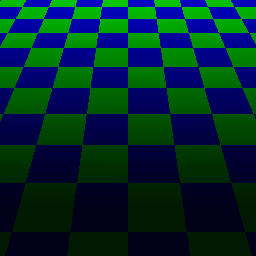
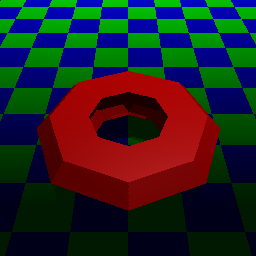
x

Changed region(s): [[0.125, 0.2812, 0.875, 0.8438]]

diff --git a/A4/src/comp557/a4/Scene.java b/A4/src/comp557/a4/Scene.java
@@ -5,13 +5,9 @@ import java.util.HashMap;
 import java.util.List;
 import java.util.Map;
 import javax.vecmath.Color3f;
-import javax.vecmath.Color4f;
 import javax.vecmath.Matrix4d;
-import javax.vecmath.Point3d;
 import javax.vecmath.Vector3d;
 
-import com.jogamp.opengl.glu.GLU;
-import com.jogamp.opengl.util.gl2.GLUT;
 
 /**
  * Simple scene loader based on XML file format.
@@ -68,61 +64,79 @@ public class Scene {
         
         render.init(w, h, showPanel);
         
-        lookat = null;
+		lookat = null;
+		
+		Vector3d clrs[][] = new Vector3d[w][h];
+		for (int i = 0; i < w; i++) {
+			for (int j = 0; j < h; j++) {
+				clrs[i][j] = new Vector3d();
+			}
+		}
         
         for ( int j = 0; j < h && !render.isDone(); j++ ) {
             for ( int i = 0; i < w && !render.isDone(); i++ ) {
-				if (i==170&&j==300) {
-					int pfda = 124123;
-				}
-                // TODO: Objective 1: generate a ray (use the generateRay method)
-            	Ray ray = new Ray();
-            	double[] offset = new double[2];
-            	offset[0] = 0;
-            	offset[1] = 0;
-            	generateRay(i, j, offset, cam, ray);
-                // TODO: Objective 2: test for intersection with scene surfaces
-            	IntersectResult info = new IntersectResult();
-            	for (Intersectable surface : surfaceList) {
-					surface.intersect(ray, info);
-				}
-            	
-                // TODO: Objective 3: compute the shaded result for the intersection point (perhaps requiring shadow rays)
-                if (info.t==Double.POSITIVE_INFINITY) {
-                	//no collision then black
-                	render.setPixel(i, j, getcolor(render.bgcolor,255));
-				}else {
-					Vector3d color = new Vector3d();
-					
-					for (Light light : lights.values()) {
-						Vector3d wi = v3d.normalize(v3d.minus(light.from, info.p));
-						Vector3d wo = v3d.normalize(v3d.minus(cam.from, info.p));
-						
-						Vector3d n = v3d.normalize(info.n);
-						Vector3d bisector = v3d.normalize(v3d.add(v3d.normalize(wi), v3d.normalize(wo)));
-
-						IntersectResult r = new IntersectResult();
-						//if in shadow then ignore that light's contribution
-						//if (inShadow(null, light, surfaceList, r, new Ray(info.p,v3d.normalize(v3d.minus(light.from, info.p))))) continue;
-
-						//assume the I term in the light formula in obtained by lightcolor*lightpower
-						//specular using blinn phong
-						
-						
-						color = v3d.add(color,v3d.times(light.color,v3d.times(info.material.specular, light.power*Math.pow(Math.max(0, v3d.dot(n, bisector)),info.material.shinyness))));
-						//diffuse
-						color = v3d.add(color,v3d.times(light.color,v3d.times(info.material.diffuse, Math.max(0, v3d.dot(wi, info.n))*light.power)));
+				
+				for (int samplingN = 0; samplingN < render.samples; samplingN++) {
+					// TODO: Objective 1: generate a ray (use the generateRay method)
+					Ray ray = new Ray();
+					double[] offset = new double[2];
+					offset[0] = 0;
+					offset[1] = 0;
+					generateRay(i, j, offset, cam, ray);
+					// TODO: Objective 2: test for intersection with scene surfaces
+					IntersectResult info = new IntersectResult();
+					for (Intersectable surface : surfaceList) {
+						surface.intersect(ray, info);
 					}
-					color = v3d.add(color, v3d.times(info.material.diffuse, ambient));
-					color.x = Math.min(1, color.x);
-					color.y = Math.min(1, color.y);
-					color.z = Math.min(1, color.z);
-					render.setPixel(i, j, getcolor(color, 255));
+					
+					// TODO: Objective 3: compute the shaded result for the intersection point (perhaps requiring shadow rays)
+					if (info.t==Double.POSITIVE_INFINITY) {
+						//no collision then do nothing
+						
+					}else {
+						Vector3d color = new Vector3d();
+						for (Light light : lights.values()) {
+							Vector3d wi = v3d.normalize(v3d.minus(light.from, info.p));
+							Vector3d wo = v3d.normalize(v3d.minus(cam.from, info.p));
+							
+							Vector3d n = v3d.normalize(info.n);
+							Vector3d bisector = v3d.normalize(v3d.add(v3d.normalize(wi), v3d.normalize(wo)));
+	
+							IntersectResult r = new IntersectResult();
+							//if in shadow then ignore that light's contribution
+							if (inShadow(null, light, surfaceList, r, new Ray(info.p,v3d.normalize(v3d.minus(light.from, info.p))))) continue;
+	
+							//assume the I term in the light formula in obtained by lightcolor*lightpower
+							//specular using blinn phong
+							if (i==120&&j==80) {
+								int pfda = 124123;
+							}
+							
+							color = v3d.add(color,v3d.times(light.color,v3d.times(info.material.specular, light.power*Math.pow(Math.max(0, v3d.dot(n, bisector)),info.material.shinyness))));
+							//diffuse
+							color = v3d.add(color,v3d.times(light.color,v3d.times(info.material.diffuse, Math.max(0, v3d.dot(wi, n))*light.power)));
+						}
+						color = v3d.add(color, v3d.times(info.material.diffuse, ambient));
+						
+						color.x = Math.min(1, color.x);
+						color.y = Math.min(1, color.y);
+						color.z = Math.min(1, color.z);
+						clrs[i][j] = v3d.add(color, clrs[i][j]);
+					}
 				}
-            	
             }
-        }
-        
+		}
+		double invSamples = 1.0/render.samples;
+        for (int i = 0; i < w; i++) {
+			for (int j = 0; j < h; j++) {
+				if (clrs[i][j].lengthSquared()<Intersectable.Epsilon) {
+					render.setPixel(i, j, getcolor(render.bgcolor,255));
+				}else{
+					render.setPixel(i, j, getcolor(v3d.times(clrs[i][j], invSamples),255));
+				}
+				
+			}
+		}
         // save the final render image
         render.save();
         

diff --git a/A4/src/comp557/a4/Mesh.java b/A4/src/comp557/a4/Mesh.java
@@ -5,6 +5,7 @@ import java.util.Map;
 
 import javax.vecmath.Point3d;
 import javax.vecmath.Vector3d;
+import javax.vecmath.Vector4d;
 
 public class Mesh extends Intersectable {
 	
@@ -34,38 +35,33 @@ public class Mesh extends Intersectable {
 		for (int[] face : soup.faceList) {
 
 			//3 points of triangle
-			Point3d p1 = soup.vertexList.get(face[0]).p;
-			Point3d p2 = soup.vertexList.get(face[1]).p;
-			Point3d p3 = soup.vertexList.get(face[2]).p;
+			Point3d p0 = soup.vertexList.get(face[0]).p;
+			Point3d p1 = soup.vertexList.get(face[1]).p;
+			Point3d p2 = soup.vertexList.get(face[2]).p;
 
-			//vectors and normal, following right hand rule
-			Vector3d v1 = v3d.minus(p2, p1);
-			Vector3d v2 = v3d.minus(p3, p2);
-			Vector3d v3 = v3d.minus(p1, p3);
-			Vector3d n = v3d.cross(v1, v3d.minus(p3, p1));
+			Vector3d v0v1 = v3d.minus(p1, p0);
+			Vector3d v0v2 = v3d.minus(p2, p0);
 
-			//check if facing other side
-			double cosTheta = v3d.dot(n, ray.viewDirection);
-			if (cosTheta>-Epsilon) continue;
+			Vector3d pvec = v3d.cross(ray.viewDirection,v0v2);
+			double det = v3d.dot(v0v1, pvec);
 
-			//if t not valid then discard
-			double d = v3d.dot(n, p1);
-			double t = (v3d.dot(n, ray.eyePoint) + d)/cosTheta;
-			if (t<Epsilon||t>=result.t) continue;
+			if(Math.abs(det)<Epsilon) continue;
 
-			//compute the point on same plane to triangle
-			Vector3d p = v3d.add(ray.eyePoint, v3d.times(ray.viewDirection, t));
-
-			//check if p inside triangle
+			double invdet = 1/det;
+			Vector3d tvec = v3d.minus(ray.eyePoint,p0);
+			double u = v3d.dot(tvec, pvec)*invdet;
+			if(u<0||u>1) continue;
+			Vector3d qvec = v3d.cross(tvec, v0v1);
+			double v = v3d.dot((ray.viewDirection), qvec)*invdet;
+			if(v<0||u+v>1) continue;
+			double t = v3d.dot(v0v2, qvec)*invdet;
 			
-			if(v3d.dot(n, v3d.cross(v1, v3d.minus(p, p1)))<0) continue;
-			if(v3d.dot(n, v3d.cross(v2, v3d.minus(p, p2)))<0) continue;
-			if(v3d.dot(n, v3d.cross(v3, v3d.minus(p, p3)))<0) continue;
-
-			result.t = t;
-			result.n = v3d.normalize(n);
-			result.material = material;
-			result.p = new Point3d(p);
+			if (t>Epsilon&&t<result.t) {
+				result.t = t;
+				result.p = new Point3d(v3d.add(ray.eyePoint, v3d.times(ray.viewDirection, t)));
+				result.material = material;
+				result.n = v3d.normalize(v3d.cross(v0v1, v0v2));
+			}
 		}
 	}
 

diff --git a/A4/src/comp557/a4/v3d.java b/A4/src/comp557/a4/v3d.java
@@ -2,10 +2,8 @@ package comp557.a4;
 
 import javax.vecmath.Color4f;
 import javax.vecmath.Matrix4d;
-import javax.vecmath.Point3d;
 import javax.vecmath.Tuple3d;
 import javax.vecmath.Tuple3f;
-import javax.vecmath.Tuple4d;
 import javax.vecmath.Tuple4f;
 import javax.vecmath.Vector3d;
 /**

diff --git a/A4/src/comp557/a4/Intersectable.java b/A4/src/comp557/a4/Intersectable.java
@@ -9,7 +9,7 @@ public abstract class Intersectable {
 	public Material material;
 	
 	//avoid self reflection in case
-	public static final double Epsilon = 0.00001;
+	public static final double Epsilon = 0.01;
 	
 	/** 
 	 * Default constructor, creates the default material for the surface

diff --git a/A4/src/comp557/a4/Plane.java b/A4/src/comp557/a4/Plane.java
@@ -41,7 +41,7 @@ public class Plane extends Intersectable {
 			if (Math.abs(x%2) == Math.abs(z%2)) {
 				result.material = material;
 			}else {
-				result.material = material2;
+				result.material = material2==null?material:material2;
 			}
 			
 			
